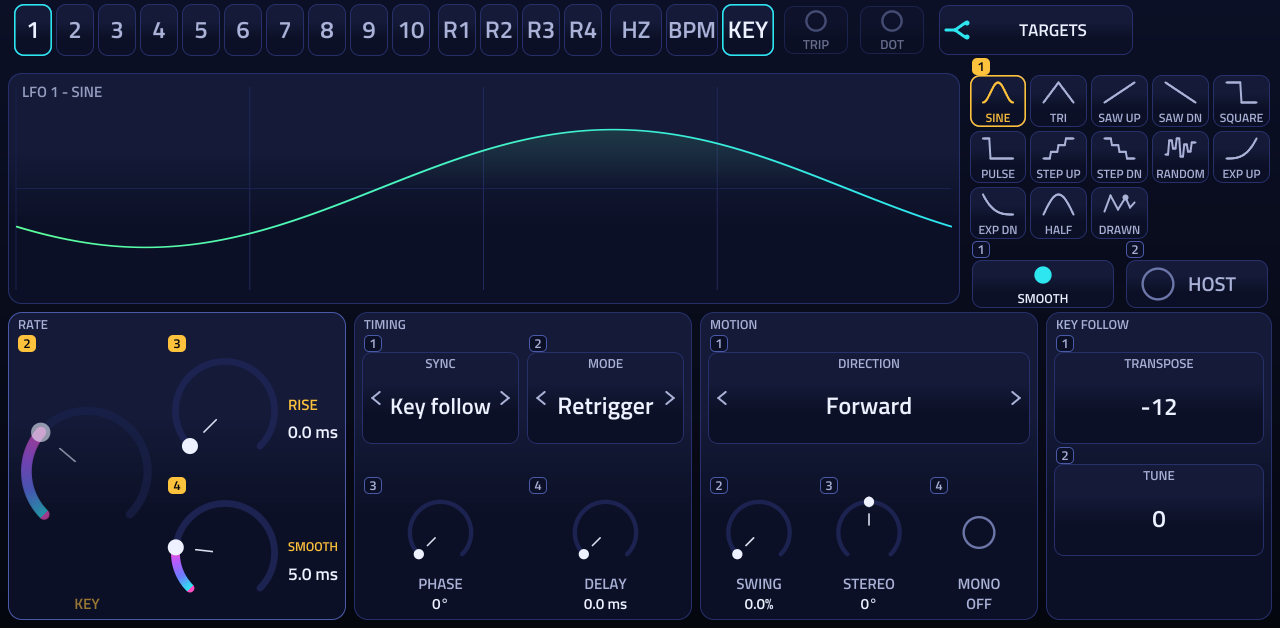
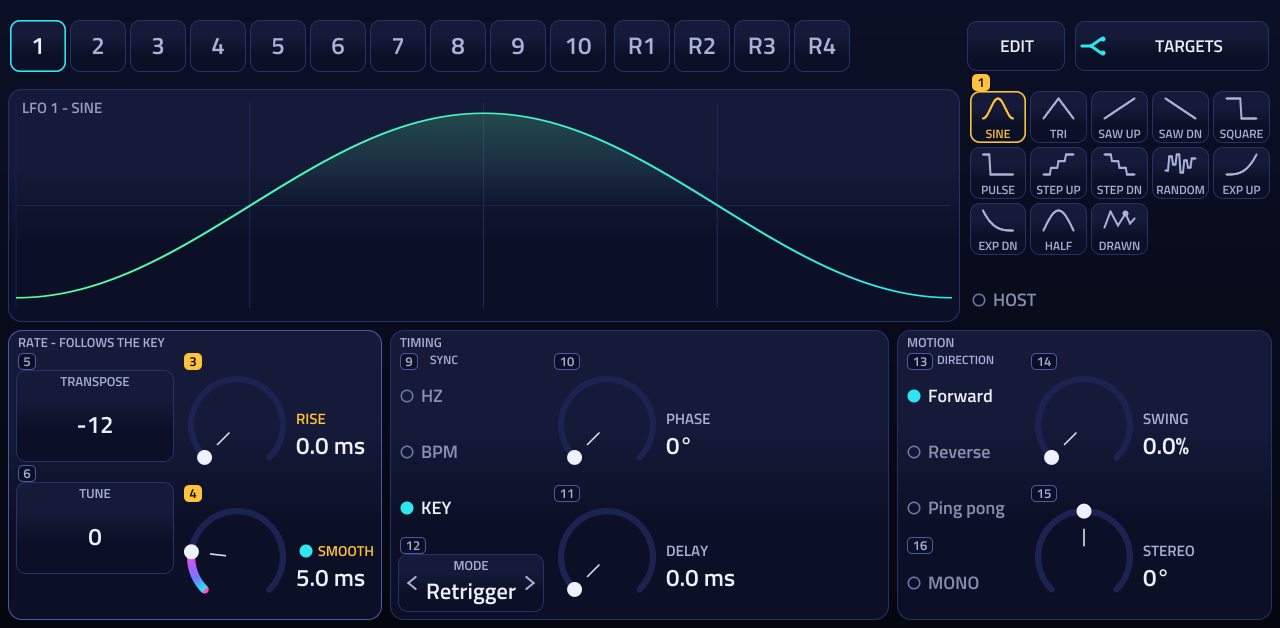
User guide: LFO chapter (HZ/BPM/KEY list, SMOOTH LED, KEY mode, editor grid and SNAP)

diff --git a/docs/user-guide/SynthyBoy-MPC-User-Guide.md b/docs/user-guide/SynthyBoy-MPC-User-Guide.md
@@ -534,31 +534,37 @@ The three blocks under the graph are one Q group each (in the picture: ADSR yell
 
 ![LFO](img/lfo.png)
 
-The pages LFO 1 - LFO 4 each show one LFO; the top bar switches to **1 .. 10** (LFOs) or **R1 .. R4** (random LFOs). The tab only decides which is shown first.
+The pages LFO 1 - LFO 4 each show one LFO; the bar at the top switches to **1 .. 10** (LFOs) or **R1 .. R4** (random LFOs), all in one row. The tab only decides which is shown first.
+An LFO is a repeating wave that moves a parameter (vibrato, tremolo, a wobbling filter). You give it targets with the **TARGETS** button (chapter 6).
 
-**Top bar:** instance cells, the sync mode **HZ / BPM / KEY**, switches **TRIP** (triplet) and **DOT** (dotted) (active only in BPM), the **TARGETS** button (what the LFO modulates, chapter 6).
+**Top bar:** the instance cells, **EDIT** (opens the shape editor, below) and **TARGETS** (what the LFO modulates, with the number of routes).
 
-**Display** (left): the shape of one cycle, with the phase marker, a cursor that runs with the sounding voice. A strip above the graph shows delay and rise when set.
+**Display** (left): the shape of one cycle, with the phase marker and a cursor that runs with the sounding voice. A strip above the graph shows delay and rise when set. In KEY follow mode (the sync list on KEY) the display shows the shape at full height.
 
-**Shape picker** (right, 13 cells): SINE, TRI, SAW UP, SAW DN, SQUARE, PULSE (25 percent), STEP UP, STEP DN, RANDOM (random steps), EXP UP, EXP DN, HALF (half sine), DRAWN (your own shape). Under it two switches: **SMOOTH** and **HOST**. **HOST** only matters when the LFO's MODE is Free-run (and the sync is not Key follow): then the LFO's phase is taken from the host's song position while the transport plays, so a song plays the same every time; with HOST off the LFO runs freely and keeps its own clock.
+**Shape picker** (right, 13 cells; Q 1): SINE, TRI, SAW UP, SAW DN, SQUARE, PULSE (25 percent), STEP UP, STEP DN, RANDOM (random steps), EXP UP, EXP DN, HALF (half sine), DRAWN (your own shape).
+Under it the **HOST** LED switch. **HOST** only matters when the LFO's MODE is Free-run (and the sync is not KEY): then the LFO's phase is taken from the host's song position while the transport plays, so a song plays the same every time; with HOST off the LFO runs freely and keeps its own clock.
 
-**Blocks (one Q group each):**
+**Blocks (one Q group each; the controls are not framed one by one):**
 
 | Block | Control | Parameter, range |
 |---|---|---|
-| RATE | the shape picker is Q 1; RATE | 0.01 .. 200 Hz, default 2 (in BPM mode: DIVISION, 13 choices Freeze, 32 bars, 16 bars, 8 bars, 4 bars, 2 bars, 1 bar, 1/2 note, 1/4 note, 1/8 note, 1/16 note, 1/32 note, 1/64 note; dim in KEY) |
+| RATE | RATE (the large knob) | 0.01 .. 200 Hz, default 2 |
 | | RISE | fade in 0 .. 8000 ms |
-| | SMOOTH | smooth time 1 .. 1000 ms (dim when the SMOOTH switch is off) |
-| TIMING | SYNC | Free (Hz), Tempo, Tempo dotted, Tempo triplet, Key follow (this is the same as the HZ / BPM / KEY buttons and TRIP / DOT) |
-| | MODE | Retrigger, Free-run, Envelope, Sustain envelope, Loop at point, Loop and hold |
+| | SMOOTH | the **LED on the label** is the smoothing switch, the knob is the smooth time 1 .. 1000 ms. The knob is dim while the LED is off. A tap on the label text switches the LED. |
+| TIMING | SYNC list **HZ / BPM / KEY** | Free (Hz), Tempo (BPM), Key follow. The tempo variants (dotted, triplet) are the TRIP and DOT switches in the RATE block |
+| | MODE | Retrigger, Free-run, Envelope, Sustain envelope, Loop at point, Loop and hold (a stepper with a list; the names are long) |
 | | PHASE | 0 .. 360 degrees |
 | | DELAY | 0 .. 4000 ms |
-| MOTION | DIRECTION | Forward, Reverse, Ping pong |
+| MOTION | DIRECTION | a list: Forward, Reverse, Ping pong |
 | | SWING | 0 .. 100 percent |
 | | STEREO | -180 .. +180 degrees (offset between left and right) |
-| | MONO | switch |
-| KEY FOLLOW (only in KEY sync) | TRANSPOSE | -60 .. +36 semitones, default -12 |
-| | TUNE | -100 .. +100 cents |
+| | MONO | LED switch |
+
+**BPM mode.** With the sync list on BPM the RATE knob is replaced by the **DIVISION** stepper (13 choices: Freeze, 32 bars, 16 bars, 8 bars, 4 bars, 2 bars, 1 bar, 1/2 note, 1/4 note, 1/8 note, 1/16 note, 1/32 note, 1/64 note) with the LED switches **TRIP** (triplet) and **DOT** (dotted) under it; they exist only in this mode.
+
+![LFO in BPM mode (lower half of the page)](img/lfo-bpm.png)
+
+**KEY mode.** With the sync list on KEY the rate follows the note you play, so the RATE knob is not on the page. The block is named "RATE - FOLLOWS THE KEY" and holds **TRANSPOSE** (-60 .. +36 semitones, default -12) and **TUNE** (-100 .. +100 cents), each its own Q group right after RATE.
 
 ![LFO in KEY mode](img/lfo-key.png)
 
@@ -566,16 +572,21 @@ The pages LFO 1 - LFO 4 each show one LFO; the top bar switches to **1 .. 10** (
 
 ![Random LFO](img/lfo-random.png)
 
-Style picker: PERLIN, S & H (sample and hold), SINE INT (sine interpolate), LORENZ, ROSSLER; block RANDOM: RATE 0.01 .. 200 Hz (default 2), STYLE, SYNC (Free (Hz), Tempo, Tempo dotted, Tempo triplet, Key follow), STEREO (Off/On); block TRIGGER: MODE (Retrigger or Free-run); a KEY FOLLOW block in KEY sync. The display is the trace of the output.
+The style grid is Q 1 and has no stepper of its own: PERLIN, S & H (sample and hold), SINE INT (sine interpolate), LORENZ, ROSSLER. The display is the trace of the output. The block RANDOM is one row: the RATE knob (0.01 .. 200 Hz, default 2), the HZ / BPM / KEY list, the STEREO LED switch and the trigger MODE (a list of two: Retrigger, Free-run). In KEY follow the TRANSPOSE and TUNE block replaces the rate as above. Random LFOs have no EDIT button.
 
-**The drawn-shape editor.** The **EDIT** button at the top right of the display opens the editor page over the page (BACK returns). If you press EDIT on a built-in shape, the shape is copied into points and becomes a drawn shape (the LFO's shape is then DRAWN). Choosing the cell DRAWN in the picker only makes the shape a drawn one (a triangle when it has no points yet); it does not open the editor.
+**The drawn-shape editor.** The **EDIT** button at the top right opens the editor page over the page (BACK returns). If you press EDIT on a built-in shape, the shape is copied into points and becomes a drawn shape (the LFO's shape is then DRAWN); the original shape is one tap away in the picker. Choosing the cell DRAWN in the picker only makes the shape a drawn one (a triangle when it has no points yet); it does not open the editor.
+
+![LFO editor](img/lfo-editor.png)
 
 - **Tools** (a row of four): **POINT**, **FLAT**, **RAMP+**, **RAMP-**.
   - POINT: tap on empty ground adds a point (snapped to the grid when SNAP is on), and dragging moves it; touching a point selects and drags it (the two end points only up and down); the small handle in the middle of a segment drags its curve (power -20 .. +20); a **long press** on a point deletes it.
   - FLAT / RAMP+ / RAMP-: touching a cell of the grid draws a flat piece, a rising or a falling ramp over the cell's column; dragging across draws a staircase or saw.
-- Buttons: **UNDO**, **DELETE**, switches **SNAP**, **LOOP**, **SMOOTH**.
-- **EDIT Q group** (the SELECTED POINT): X, Y, CURVE, GRID (virtual knobs of the plugin: they change the selected point).
+- The corner of the canvas shows how many points the shape has (up to 128).
+- **SELECTED POINT** (Q 1 - 4): POINT (which point is selected), X (its time), Y (its level), CURVE (the curve of the segment after it). Without a selected point they show a dash.
+- **GRID** (Q 5 - 7 on a 16-knob device): **GRID X** (columns of the cycle, 2 .. 32), **GRID Y** (rows of the height, 2 .. 32) and **SNAP** (a LED toggle: points snap to the grid lines). The grid is drawn on the canvas and used by SNAP and by the cell tools (FLAT, RAMP+, RAMP-). **The grid is stored in the preset together with the shape** (state version 5): a preset keeps its grid when you load it. A preset saved before that has no grid stored; the editor then takes the coarsest of 4, 8, 12, 16, 24, 32 whose lines all points lie on, else 8.
+- Buttons: **UNDO**, **DELETE**; LED toggles **LOOP** and **SMOOTH** (smooth makes the cosine S-curve of every segment). A shape has one loop point and one smooth flag.
 - A drawn shape that has no points is read as a flat line.
+- The built-in shapes become exact points (sine = 3 points + smooth); EXP UP, EXP DN and HALF become 16 short segments and so follow the original only closely.
 
 ### 5.10 Mod matrix
 
